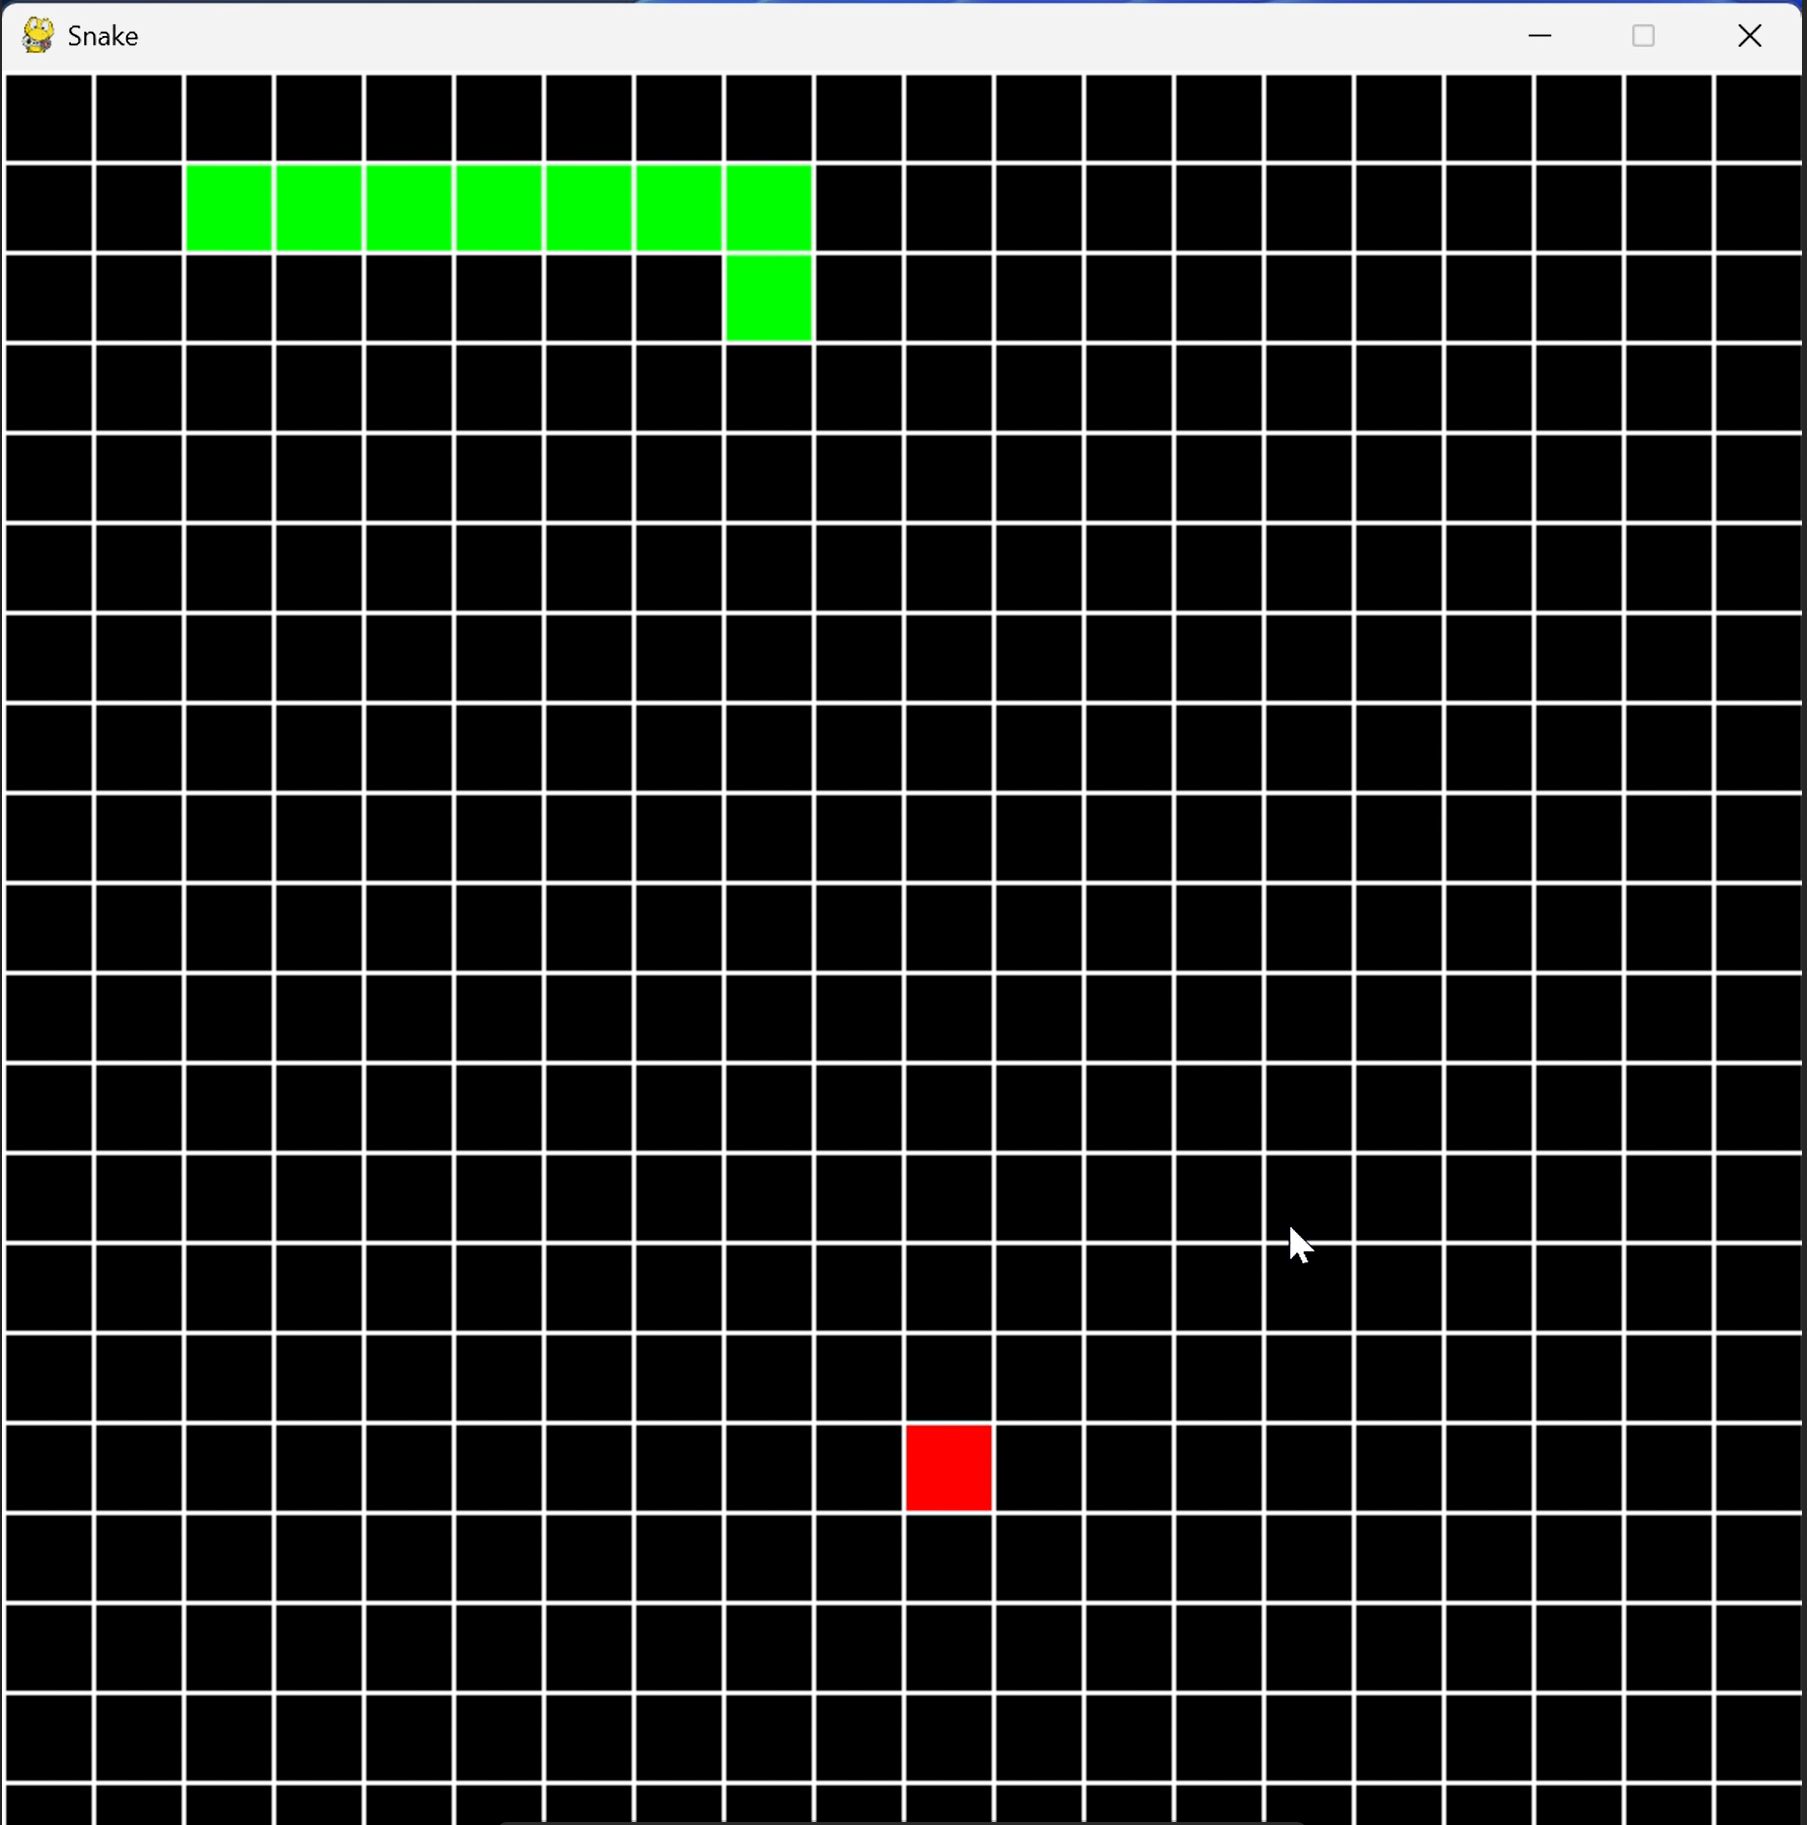
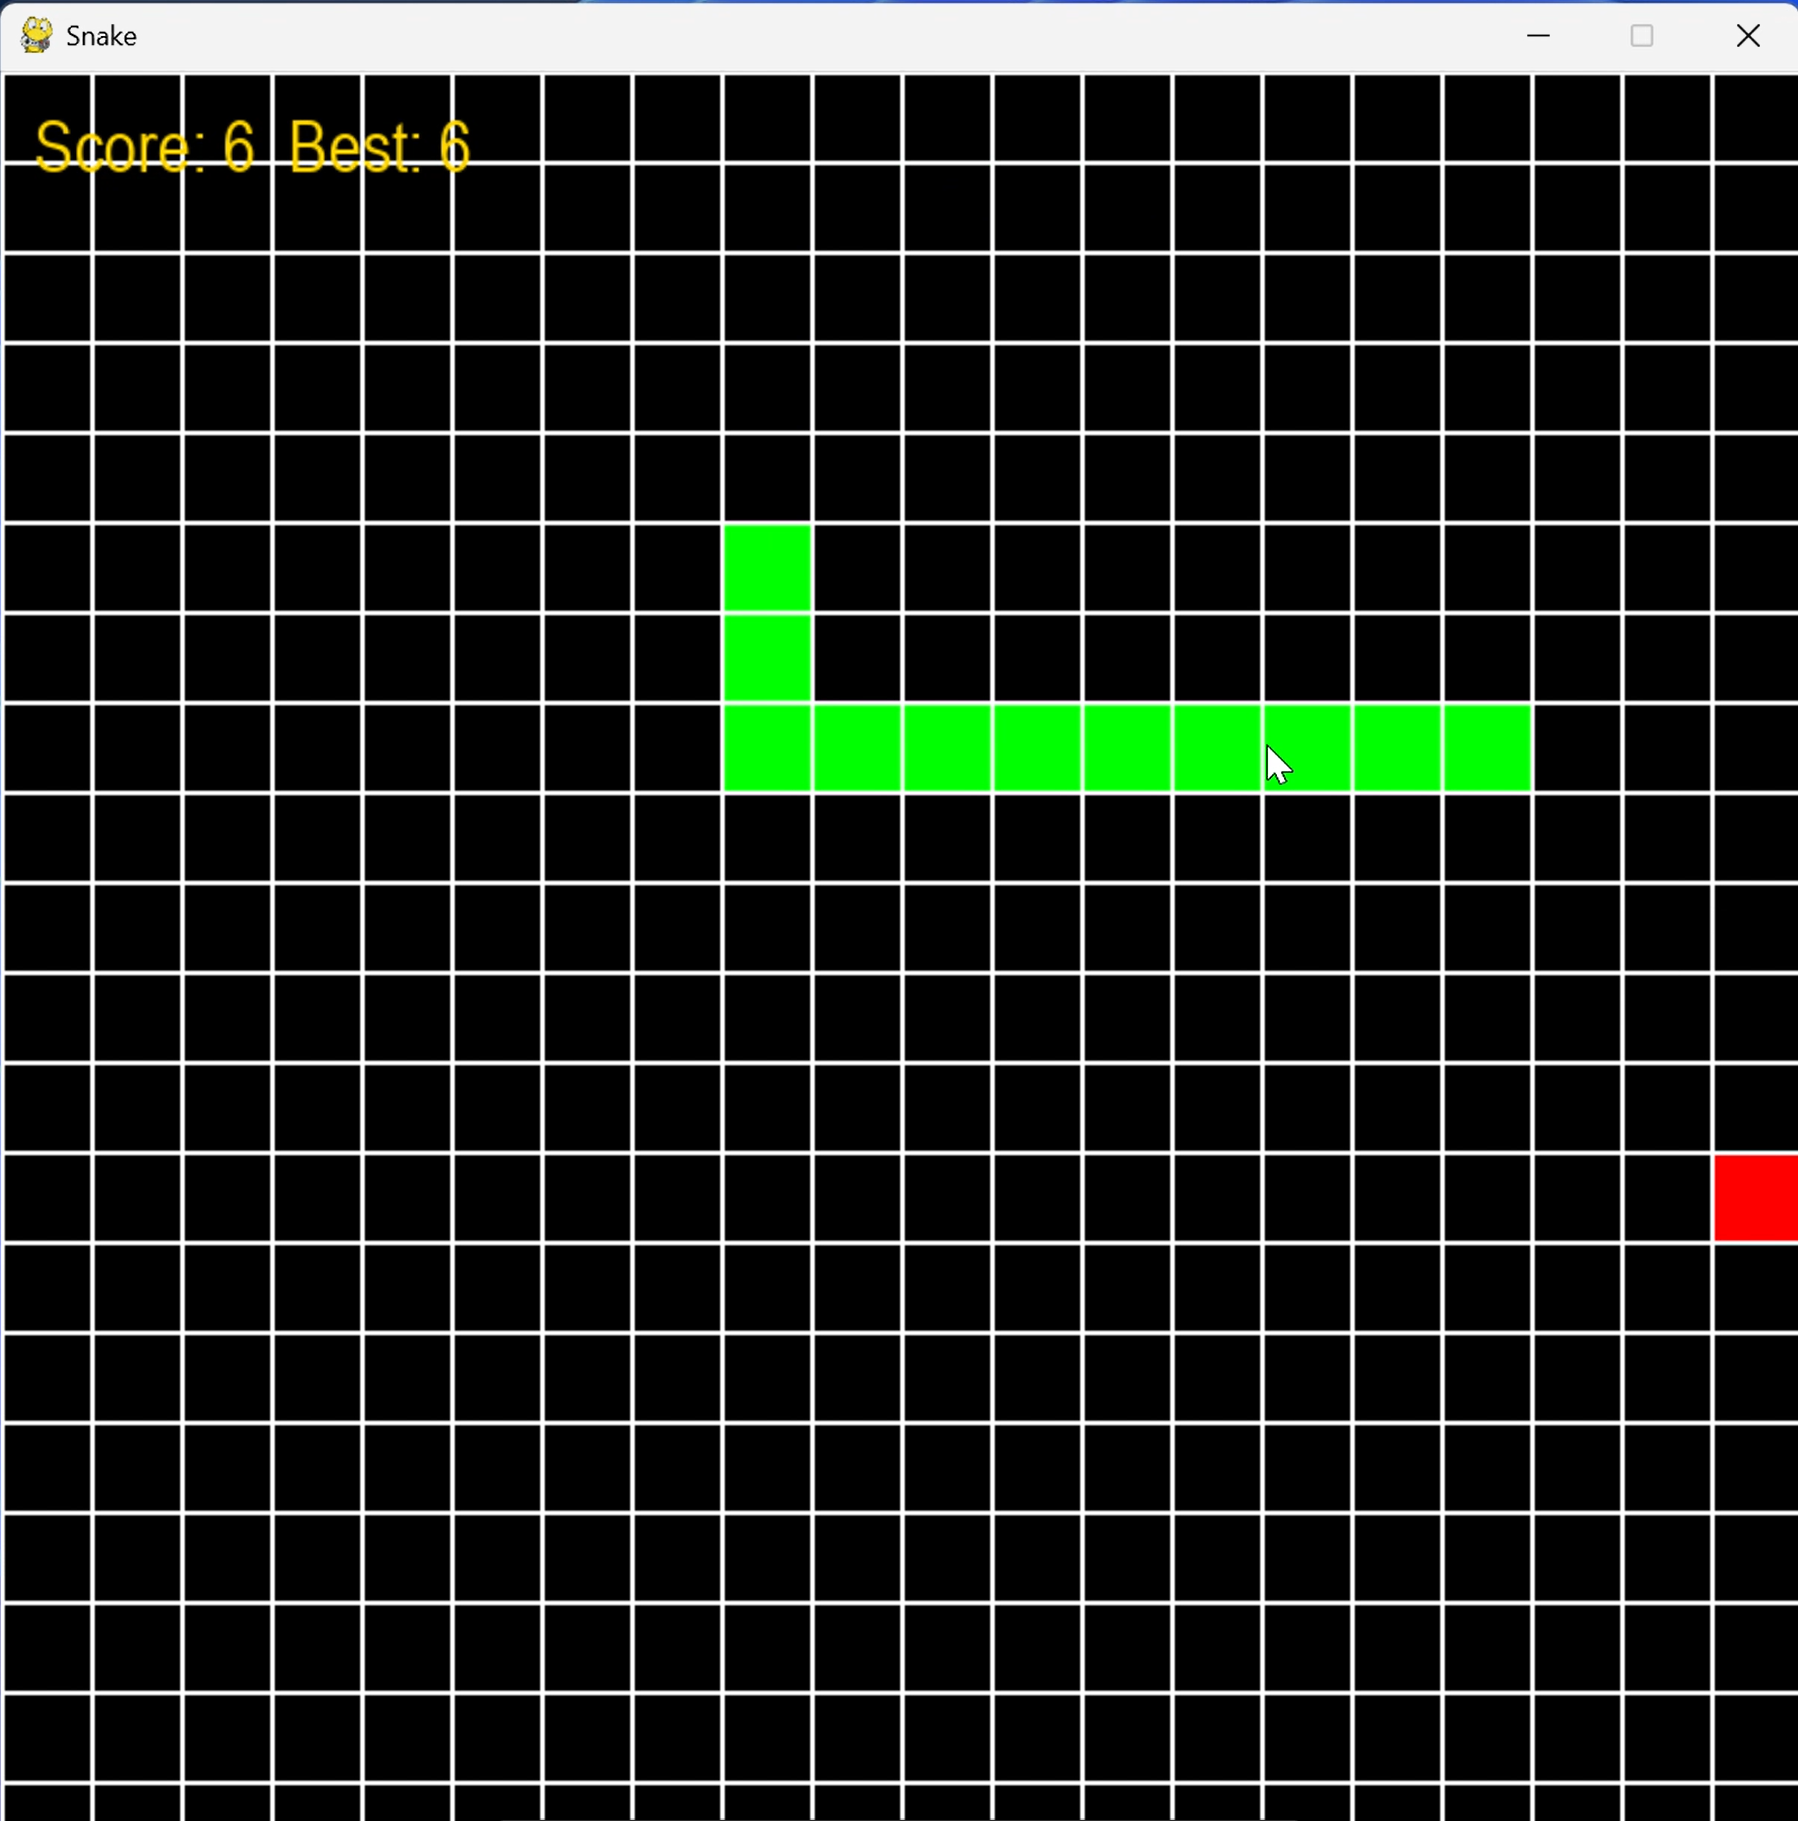
Implement highscore tracking and display in the game; add .gitignore for highscore file

Changed region(s): [[0.0, 0.0, 1.0, 1.0], [0.0, 0.0, 0.0623, 0.0308]]

diff --git a/main.py b/main.py
@@ -1,8 +1,26 @@
 import pygame
 import random
+import os
 
 # Init pygame
 pygame.init()
+
+HIGHSCORE_FILE = "highscore.txt"
+
+def load_highscore():
+    """Loads the highscore from the file"""
+    if os.path.exists(HIGHSCORE_FILE):
+        try:
+            with open(HIGHSCORE_FILE, "r") as file:
+                return int(file.read().strip())
+        except ValueError:
+            return 0
+    return 0
+
+def save_highscore(new_highscore):
+    """Saves highscore in the file"""
+    with open(HIGHSCORE_FILE, "w") as file:
+        file.write(str(new_highscore))
 
 def draw_square(column, row, color):
     screen_x = column * SQUARE_SIZE
@@ -13,25 +31,43 @@ def draw_game_over():
     """Draws Game Over Screen"""
     screen.fill(BLACK)
     title_text = font_large.render("GAME OVER", True, RED)
-    title_rect = title_text.get_rect(center=(WIN_SIZE // 2, WIN_SIZE // 2 - 50))
+    title_rect = title_text.get_rect(center=(WIN_SIZE // 2, WIN_SIZE // 2 - 80))
 
-    restart_text = font_small.render("Press SPACE to try again or M for menu", True, WHITE)
-    restart_rect = restart_text.get_rect(center=(WIN_SIZE // 2, WIN_SIZE // 2 + 50))
+    # Score & Highscore anzeigen
+    score_text = font_small.render(f"Your Score: {score}", True, WHITE)
+    score_rect = score_text.get_rect(center=(WIN_SIZE // 2, WIN_SIZE // 2 - 10))
+
+    highscore_text = font_small.render(f"Highscore: {highscore}", True, (255, 215, 0)) # Goldene Farbe
+    highscore_rect = highscore_text.get_rect(center=(WIN_SIZE // 2, WIN_SIZE // 2 + 30))
+
+    restart_text = font_small.render("Press SPACE to try again or M for menu", True, (180, 180, 180))
+    restart_rect = restart_text.get_rect(center=(WIN_SIZE // 2, WIN_SIZE // 2 + 100))
 
     screen.blit(title_text, title_rect)
+    screen.blit(score_text, score_rect)
+    screen.blit(highscore_text, highscore_rect)
     screen.blit(restart_text, restart_rect)
 
 def draw_menu():
     """Draws Menu Screen"""
     screen.fill(BLACK)
     title_text = font_large.render("SNAKE", True, WHITE)
-    title_rect = title_text.get_rect(center=(WIN_SIZE // 2, WIN_SIZE // 2 - 50))
+    title_rect = title_text.get_rect(center=(WIN_SIZE // 2, WIN_SIZE // 2 - 100))
 
-    start_text = font_small.render("Press SPACE to start or S for settings", True, WHITE)
-    start_rect = start_text.get_rect(center=(WIN_SIZE // 2, WIN_SIZE // 2 + 50))
+    # Highscore im Menü anzeigen
+    menu_hs_text = font_small.render(f"Current Highscore: {highscore}", True, (255, 215, 0))
+    menu_hs_rect = menu_hs_text.get_rect(center=(WIN_SIZE // 2, WIN_SIZE // 2 - 30))
+
+    start_text = font_small.render("Press SPACE to start", True, WHITE)
+    start_rect = start_text.get_rect(center=(WIN_SIZE // 2, WIN_SIZE // 2 + 30))
+
+    settings_text = font_small.render("Press S for Settings (Level Select)", True, (150, 150, 150))
+    settings_rect = settings_text.get_rect(center=(WIN_SIZE // 2, WIN_SIZE // 2 + 80))
 
     screen.blit(title_text, title_rect)
+    screen.blit(menu_hs_text, menu_hs_rect)
     screen.blit(start_text, start_rect)
+    screen.blit(settings_text, settings_rect)
 
 def draw_settings():
     """Draws Settings / Level Selection Screen"""
@@ -59,7 +95,7 @@ def draw_settings():
 
 def reset_game():
     """Resets the variables to default"""
-    global game_state, head_column, head_row, snake_length, body_parts, step_x, step_y, apple_row, apple_column
+    global game_state, head_column, head_row, snake_length, body_parts, step_x, step_y, score, apple_row, apple_column
     game_state = "PLAYING"
     head_column = SQUARE_COUNT // 2
     head_row = SQUARE_COUNT //  2
@@ -67,6 +103,7 @@ def reset_game():
     body_parts = []
     step_x = 0
     step_y = 0
+    score = 0
     apple_row = random.randint(0, SQUARE_COUNT-1)
     apple_column = random.randint(0, SQUARE_COUNT-1)
 
@@ -82,6 +119,10 @@ WHITE = (255, 255, 255)
 RED = (200, 0, 0)
 font_large = pygame.font.SysFont("Arial", 64)
 font_small = pygame.font.SysFont("Arial", 32)
+
+# Highscore
+highscore = load_highscore()
+score = 0
 
 # Game States: "PLAYING", "GAMEOVER", "MENU", "SETTINGS"
 game_state = "MENU"
@@ -161,6 +202,10 @@ while run:
 
         if head_column == apple_column and head_row == apple_row:
             snake_length += 1
+            score += 1
+            if score > highscore:
+                highscore = score
+                save_highscore(highscore)
             apple_row = random.randint(0, SQUARE_COUNT-1)
             apple_column = random.randint(0, SQUARE_COUNT-1)
 
@@ -189,6 +234,10 @@ while run:
             line_pos = SQUARE_SIZE * i
             pygame.draw.line(screen, (255, 255, 255), (line_pos, 0), (line_pos, WIN_SIZE), 2)
             pygame.draw.line(screen, (255, 255, 255), (0, line_pos), (WIN_SIZE, line_pos), 2)
+            
+        # Live Score
+        live_score_text = font_small.render(f"Score: {score}  Best: {highscore}", True, (255, 215, 0))
+        screen.blit(live_score_text, (15, 15))
 
     elif game_state == "GAMEOVER":
         draw_game_over()
